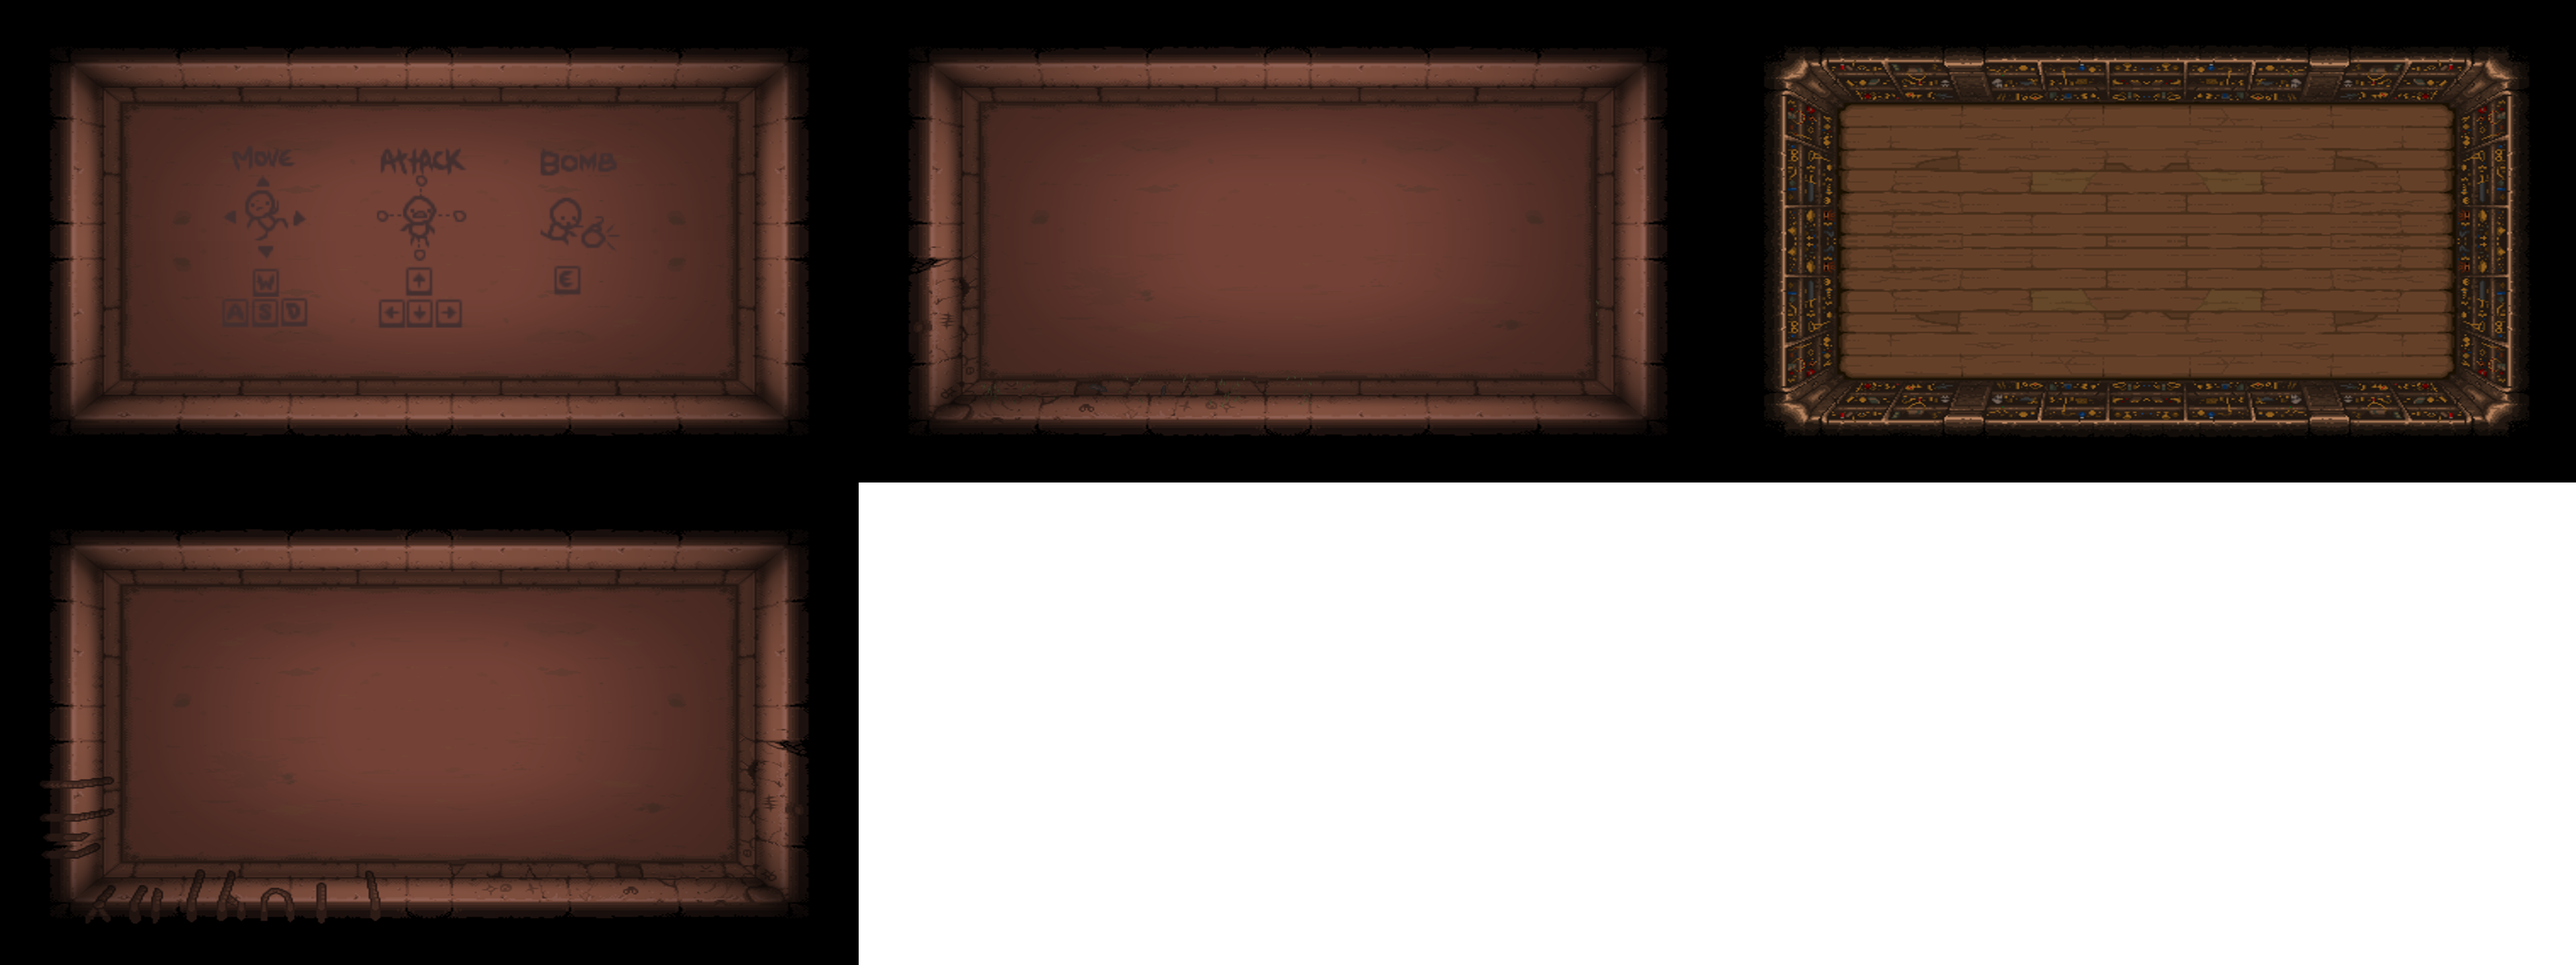
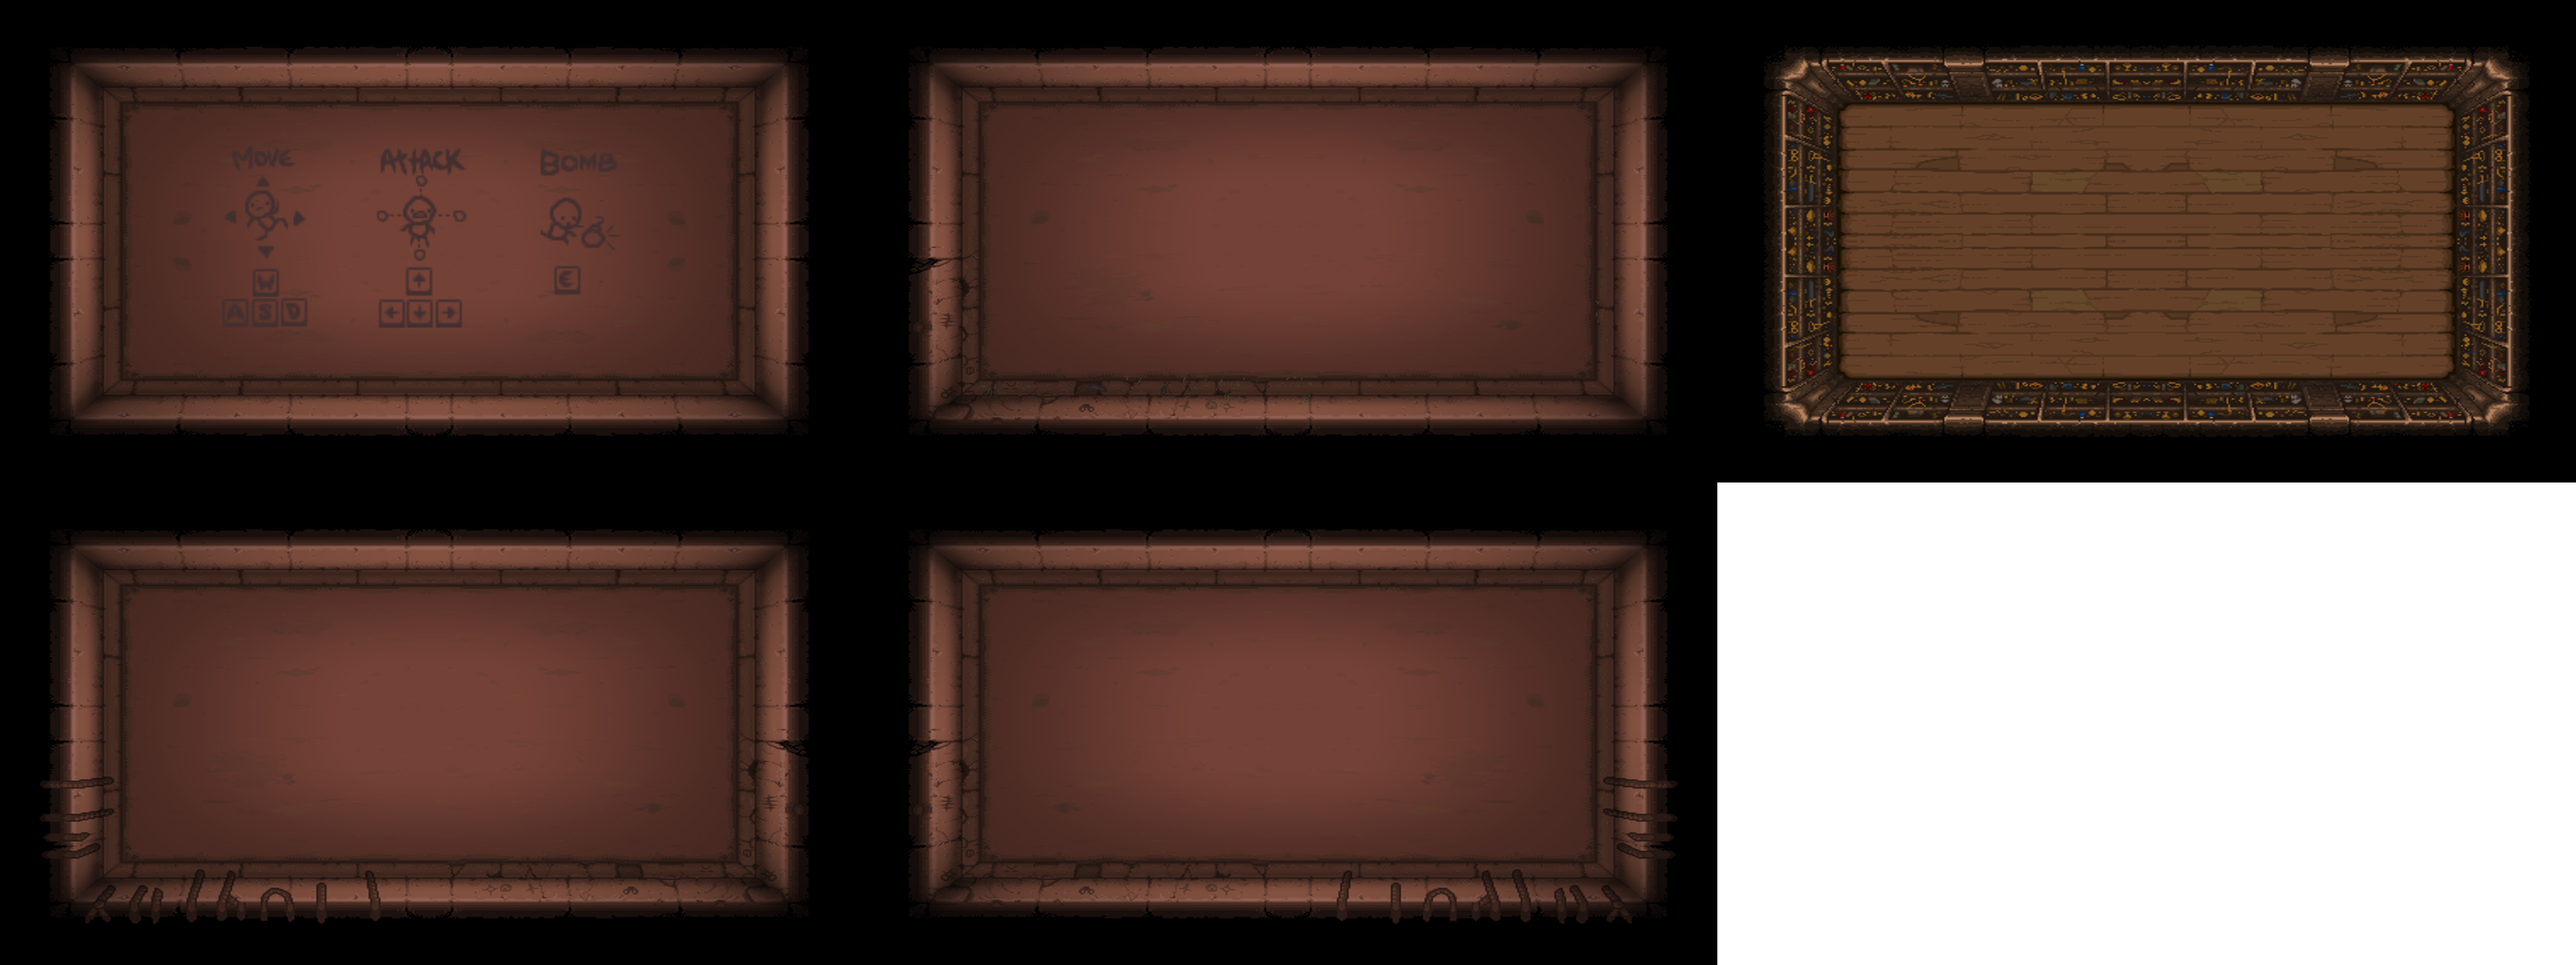
feat : 스테이지 추가 및 변경

Changed region(s): [[0.3125, 0.5, 0.6875, 1.0]]

diff --git a/WinAPI/CDoorControl.cpp b/WinAPI/CDoorControl.cpp
@@ -25,19 +25,20 @@ CDoorControl::~CDoorControl()
 
 void CDoorControl::RenderController()
 {
-#pragma region GoldenRoom
+#pragma region Room0
 	if (true != ROOM0OPEN)
 	{
 		RENDER->Image(m_pDCloseImage, 588, 565, 692, 635);
 		RENDER->Image(m_pUCloseImage, 588, 802, 692, 872);
+		RENDER->Image(m_pNRCloseImage, 1125, 1028, 1195, 1132);
 	}
 
 	else
 	{
 		RENDER->Image(m_pDOpenImage, 588, 565, 692, 635);
 		RENDER->Image(m_pUOpenImage, 588, 802, 692, 872);
+		RENDER->Image(m_pNROpenImage, 1125, 1028, 1195, 1132);
 	}
-
 #pragma region Room1
 	if (true != ROOM1CLEAR)
 	{
@@ -55,12 +56,14 @@ void CDoorControl::RenderController()
 	{
 		RENDER->Image(m_pNLCloseImage, 1390, 308, 1460, 412);
 		RENDER->Image(m_pBRCloseImage, 2330, 286, 2483, 434);
+		RENDER->Image(m_pDCloseImage, 1866, 565, 1970, 635);
 	}
 
 	else
 	{
 		RENDER->Image(m_pNLOpenImage, 1390, 308, 1460, 412);
 		RENDER->Image(m_pBROpenImage, 2330, 286, 2483, 434);
+		RENDER->Image(m_pDOpenImage, 1866, 802, 1970, 872);
 	}
 #pragma endregion
 #pragma region BossRoom
@@ -72,6 +75,19 @@ void CDoorControl::RenderController()
 	else
 	{
 		RENDER->Image(m_pBLOpenImage, 2655, 286, 2808, 434);
+	}
+#pragma endregion
+#pragma region Room4
+	if (true != ROOM4CLEAR)
+	{
+		RENDER->Image(m_pUCloseImage, 1866, 802, 1970, 872);
+		RENDER->Image(m_pNLCloseImage, 1390, 1028, 1460, 1132);
+	}
+
+	else
+	{
+		RENDER->Image(m_pUOpenImage, 1866, 802, 1970, 872);
+		RENDER->Image(m_pNLOpenImage, 1390, 1028, 1460, 1132);
 	}
 #pragma endregion
 }

diff --git a/WinAPI/CGroundTile.cpp b/WinAPI/CGroundTile.cpp
@@ -95,69 +95,6 @@ void CGroundTile::Render()
 	CTile::Render();
 
 	ComponentRender();
-
-	switch (dir)
-	{
-	case CollisionDir::Up:
-	{
-		RENDER->Text(
-			L"Up",
-			m_vecPos.x - m_vecScale.x * 0.5f,
-			m_vecPos.y - m_vecScale.y * 0.5f,
-			m_vecPos.x + m_vecScale.x * 0.5f,
-			m_vecPos.y + m_vecScale.y * 0.5f
-		);
-	}
-	break;
-
-	case CollisionDir::Down:
-	{
-		RENDER->Text(
-			L"Down",
-			m_vecPos.x - m_vecScale.x * 0.5f,
-			m_vecPos.y - m_vecScale.y * 0.5f,
-			m_vecPos.x + m_vecScale.x * 0.5f,
-			m_vecPos.y + m_vecScale.y * 0.5f
-		);
-	}
-	break;
-
-	case CollisionDir::Left:
-	{
-		RENDER->Text(
-			L"Left",
-			m_vecPos.x - m_vecScale.x * 0.5f,
-			m_vecPos.y - m_vecScale.y * 0.5f,
-			m_vecPos.x + m_vecScale.x * 0.5f,
-			m_vecPos.y + m_vecScale.y * 0.5f
-		);
-	}
-	break;
-
-	case CollisionDir::Right:
-	{
-		RENDER->Text(
-			L"Right",
-			m_vecPos.x - m_vecScale.x * 0.5f,
-			m_vecPos.y - m_vecScale.y * 0.5f,
-			m_vecPos.x + m_vecScale.x * 0.5f,
-			m_vecPos.y + m_vecScale.y * 0.5f
-		);
-	}
-	break;
-
-	case CollisionDir::None:
-	{
-		RENDER->Text(
-			L"",
-			m_vecPos.x - m_vecScale.x * 0.5f,
-			m_vecPos.y - m_vecScale.y * 0.5f,
-			m_vecPos.x + m_vecScale.x * 0.5f,
-			m_vecPos.y + m_vecScale.y * 0.5f
-		);
-	}
-	break;
-	}
 }
 
 void CGroundTile::Release()

diff --git a/WinAPI/CHUD.cpp b/WinAPI/CHUD.cpp
@@ -10,6 +10,8 @@
 #define ROOM2K	2800, 250, 50, 50, Color(255, 255, 255, 1), 30.0f
 #define ROOM3B	5360, 160, 50, 50, Color(255, 255, 255, 1), 30.0f
 #define ROOM3K	5360, 250, 50, 50, Color(255, 255, 255, 1), 30.0f
+#define ROOM4B	2800, 1600, 50, 50, Color(255, 255, 255, 1), 30.0f
+#define ROOM4K	2800, 1690, 50, 50, Color(255, 255, 255, 1), 30.0f
 #pragma endregion
 
 CHUD::CHUD()
@@ -34,9 +36,11 @@ void CHUD::Update()
 void CHUD::Render()
 {
 	RENDER->Image(m_pHUDImage, 80, 800, 130, 900);
+	RENDER->Image(m_pHUDImage, 80, 800, 130, 900);
 	RENDER->Image(m_pHUDImage, 80, 80, 130, 180);
 	RENDER->Image(m_pHUDImage, 1360, 80, 1410, 180);
 	RENDER->Image(m_pHUDImage, 2640, 80, 2690, 180);
+	RENDER->Image(m_pHUDImage, 1360, 800, 1410, 900);
 	
 	wstring curBomb;
 	curBomb = Util::WStringFormat(L"%02d", PLAYERBOMB);	
@@ -66,6 +70,12 @@ void CHUD::Render()
 	{
 		RENDER->Text(curBomb, ROOM3B);
 		RENDER->Text(curKey, ROOM3K);
+	}
+
+	if (INROOM4)
+	{
+		RENDER->Text(curBomb, ROOM4B);
+		RENDER->Text(curKey, ROOM4K);
 	}
 }
 

diff --git a/WinAPI/CGameManager.h b/WinAPI/CGameManager.h
@@ -25,6 +25,7 @@ public:
 	bool room1Clear;
 	bool room2Clear;
 	bool room3Clear;
+	bool room4Clear;
 	bool touchTeleport;
 	bool resetKillCount;
 	bool pause;
@@ -55,11 +56,13 @@ public:
 #define ROOM1CLEAR			CGameManager::GetInstance()->room1Clear
 #define ROOM2CLEAR			CGameManager::GetInstance()->room2Clear
 #define ROOM3CLEAR			CGameManager::GetInstance()->room3Clear
+#define ROOM4CLEAR			CGameManager::GetInstance()->room4Clear
 #pragma endregion
 
 #pragma region WhatRoomIsIt
 #define INROOM0				(PLAYERPOS.x < 1200) && (PLAYERPOS.y > 720)
 #define INROOM1				(PLAYERPOS.x < 1200) && (PLAYERPOS.y < 720)
-#define INROOM2				(PLAYERPOS.x > 1400 && PLAYERPOS.x < 2500)
+#define INROOM2				(PLAYERPOS.x > 1400) && (PLAYERPOS.x < 2500) && (PLAYERPOS.y < 720)
 #define INROOM3				(PLAYERPOS.x > 2600)
+#define INROOM4				(PLAYERPOS.x > 1400) && (PLAYERPOS.y > 720)
 #pragma endregion

diff --git a/WinAPI/CRock.cpp b/WinAPI/CRock.cpp
@@ -55,14 +55,8 @@ void CRock::BrokenSound()
 
 void CRock::AppearItem()
 {
-	srand((unsigned int)time(NULL));
-	int num;
-
-	for (int i = 0; i < 3; i++)
-	{
-		num = rand() % 3;
-	}
-
+	int num = rand() % 3;
+	
 	SelectItem(num);
 }
 
@@ -75,21 +69,22 @@ void CRock::SelectItem(int num)
 	switch (num)
 	{
 	case 0:
-		pPickupHeart->SetPos(m_vecPos);
-		ADDOBJECT(pPickupHeart);
+		pItem = pPickupHeart;
 		break;
 
 	case 1:
-		pPickupBomb->SetPos(m_vecPos);
-		ADDOBJECT(pPickupBomb);
+		pItem = pPickupBomb;
 		break;
 
 	case 2:
-		pPickupKey->SetPos(m_vecPos);
-		ADDOBJECT(pPickupKey);
+		pItem = pPickupKey;
 		break;
 	}
 
+	pItem->SetPos(m_vecPos);
+	ADDOBJECT(pItem);
+	int count = 0;
+	count++;
 	m_bIsSpecial = false;
 }
 

diff --git a/WinAPI/CDoorFrame.cpp b/WinAPI/CDoorFrame.cpp
@@ -37,11 +37,17 @@ void CDoorFrame::Render()
 	RENDER->Image(m_pNRFrameImage, 1125, 308, 1195, 412);
 	RENDER->Image(m_pNLFrameImage, 1390, 308, 1460, 412);
 
+	RENDER->Image(m_pNRFrameImage, 1125, 1028, 1195, 1132);
+	RENDER->Image(m_pNLFrameImage, 1390, 1028, 1460, 1132);
+
 	RENDER->Image(m_pBRFrameImage, 2330, 286, 2483, 434);
 	RENDER->Image(m_pBLFrameImage, 2655, 286, 2808, 434);
 
 	RENDER->Image(m_pDFrameImage, 588, 565, 692, 635);
 	RENDER->Image(m_pUFrameImage, 588, 802, 692, 872);
+	
+	RENDER->Image(m_pDFrameImage, 1866, 565, 1970, 635);
+	RENDER->Image(m_pUFrameImage, 1866, 802, 1970, 872);
 }
 
 void CDoorFrame::Release()

diff --git a/WinAPI/CBlackRock.cpp b/WinAPI/CBlackRock.cpp
@@ -25,10 +25,10 @@ void CBlackRock::Init()
 
 	m_pAnimator = new CAnimator;
 
-	m_pAnimator->CreateAnimation(L"NotBroken", m_pBlackRockImage, Vector(0.0f, 0.0f), Vector(57.0f, 60.0f), Vector(57.0f, 0.0f), 0, 1, false);
+	m_pAnimator->CreateAnimation(L"BlackNotBroken", m_pBlackRockImage, Vector(0.0f, 0.0f), Vector(57.0f, 60.0f), Vector(57.0f, 0.0f), 0, 1, false);
 	m_pAnimator->CreateAnimation(L"Broken", m_pBlackFragmentsImage, Vector(0.0f, 0.0f), Vector(64.0f, 64.0f), Vector(64.0f, 0.0f), 0, 1, false);
 
-	m_pAnimator->Play(L"NotBroken");
+	m_pAnimator->Play(L"BlackNotBroken");
 
 	AddComponent(m_pAnimator);
 

diff --git a/WinAPI/CPlayerHP.cpp b/WinAPI/CPlayerHP.cpp
@@ -38,6 +38,7 @@ void CPlayerHP::Render()
 	RENDER->Image(m_pPlayerHPFrame, 130, 60, 310, 90);
 	RENDER->Image(m_pPlayerHPFrame, 1410, 60, 1590, 90);
 	RENDER->Image(m_pPlayerHPFrame, 2690, 60, 2870, 90);
+	RENDER->Image(m_pPlayerHPFrame, 1410, 780, 1590, 810);
 
 	float hpWidth = (310 - 130) * PLAYERHP / PLAYERMAXHP;
 
@@ -61,6 +62,11 @@ void CPlayerHP::Render()
 		if (INROOM3)
 		{
 			RENDER->FrameImage(m_pPlayerHPGauge, 2690, 60, 2690 + hpWidth, 90, 0, 0, hpWidth, 30);
+		}
+
+		if (INROOM4)
+		{
+			RENDER->FrameImage(m_pPlayerHPGauge, 1410, 780, 1410 + hpWidth, 810, 0, 0, hpWidth, 30);
 		}
 	}
 }

diff --git a/WinAPI/CSceneStage01.h b/WinAPI/CSceneStage01.h
@@ -32,9 +32,7 @@ private:
 	void CreateBoss();
 	void CreateRock();
 
-	void SpawnRoom1();
-	void SpawnRoom2();
-	void SpawnRoom3();
+	void SpawnRoom();
 
 	void CheckRoomClear();
 	void WhatRoomClear();
@@ -46,6 +44,7 @@ private:
 	vector<CMonster*> m_vecSpawnMonsters;
 	vector<Vector> m_vecMonsterPositions;
 	vector<Vector> m_vecRockPositions;
+	vector<Vector> m_vecTeleportPositions;
 
 	int randomNumber;
 	int killCount;
@@ -57,6 +56,7 @@ private:
 	bool m_bIsRoom1Clear;
 	bool m_bIsRoom2Clear;
 	bool m_bIsRoom3Clear;
+	bool m_bIsRoom4Clear;
 	bool m_bIsEnterBossRoom;
 
 private:

diff --git a/WinAPI/CGameManager.cpp b/WinAPI/CGameManager.cpp
@@ -9,6 +9,7 @@ CGameManager::CGameManager()
 	room1Clear = false;
 	room2Clear = false;
 	room3Clear = false;
+	room4Clear = false;
 	touchTeleport = false;
 	resetKillCount = false;
 	monsterKillCount = 0;
@@ -43,10 +44,9 @@ bool CGameManager::GetIsDebugMode()
 
 void CGameManager::CheckKillCount()
 {
-	if ((INROOM1 && ROOM1CLEAR) || ((INROOM2 && ROOM2CLEAR)))
+	if ((INROOM1 && ROOM1CLEAR) || (INROOM2 && ROOM2CLEAR) || (INROOM4 || ROOM4CLEAR))
 	{
 		resetKillCount = true;
-
 		ResetKillCount();
 	}
 }
